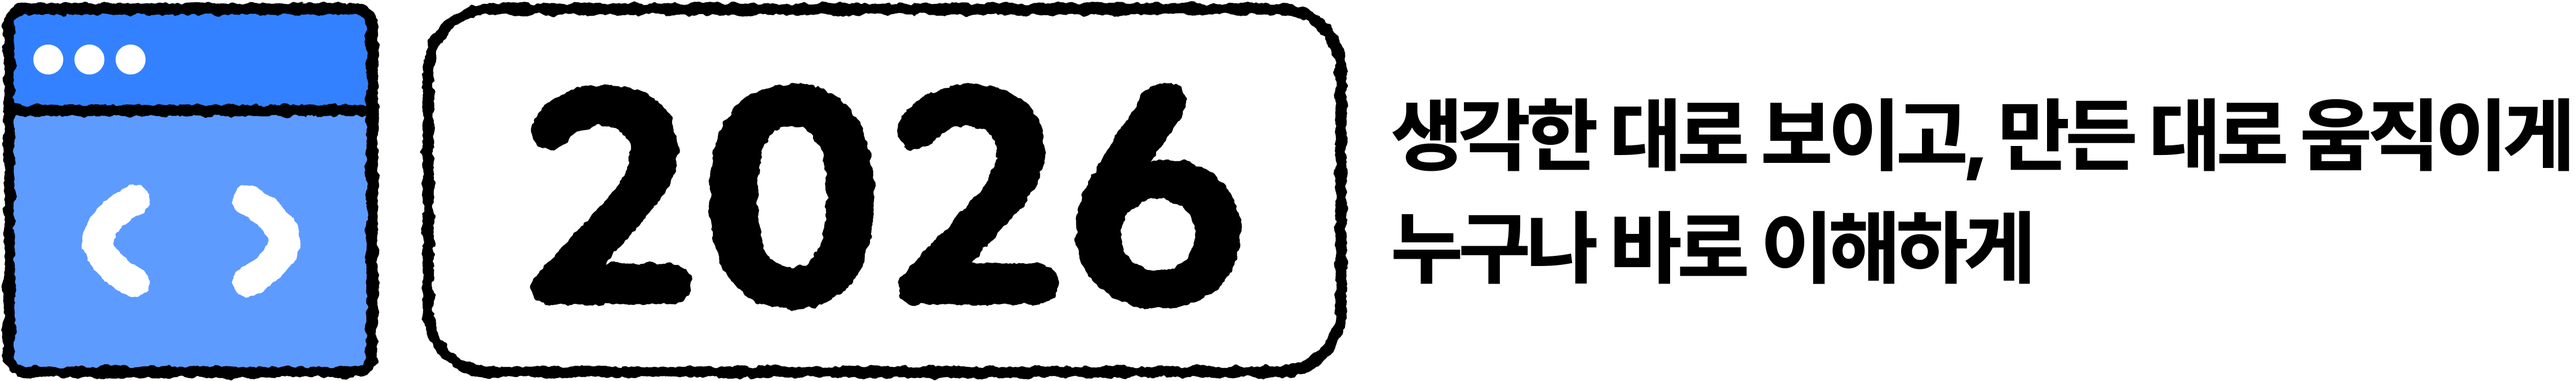
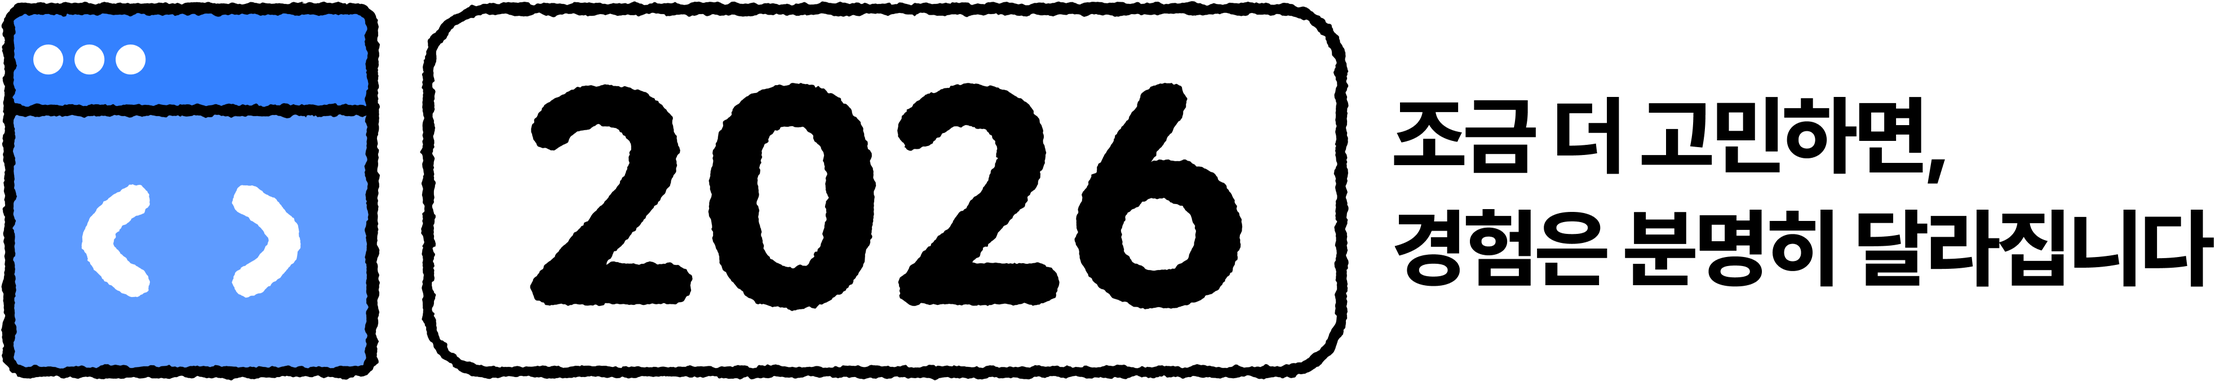
Hero 이미지 업데이트 및 About 섹션 내용 수정

Changed region(s): [[0.0, 0.0, 1.0, 1.0], [0.0, 0.0932, 0.0621, 0.2175]]

diff --git a/index.html b/index.html
@@ -357,26 +357,17 @@
             </h3>
             <div class="about__intro">
               <h4 class="about__intro-title">
-                '이해하기 쉬운가'를 기준으로 사용자 흐름을 설계하고,<br />디자인과
-                퍼블리싱을 함께 완성합니다.
+                기획 의도를 충분히 이해하고,<br />사용자 관점에서 의미 있는
+                포인트를 발견해 <br class="about__text-br" />디자인에
+                담아냅니다.
               </h4>
               <p class="about__text">
-                실무에서는 화면을 꾸미기보다, 사용자가 망설이지 않고<br
-                  class="about__text-br"
-                />
-                다음 행동으로 넘어갈 수 있도록 흐름을 먼저 설계하고,<br
-                  class="about__text-br"
-                />
-                <span class="about__text-line about__text-line--indent1"
-                  >그 의도가 실제 화면에서도 그대로 작동하도록
-                  <br class="about__text-br" />구현해왔습니다.</span
-                >
-                앞으로도 사용자의 이해를 기준으로, 복잡한 기능을<br
-                  class="about__text-br"
-                />
-                <span class="about__text-line about__text-line--indent1"
-                  >단순한 경험으로 바꾸는 디자인을 만들고자 합니다.</span
-                >
+                기획 의도를 이해한 뒤, 사용자 관점에서 다시 한 번 점검하며
+                작업해왔습니다.<br />
+                무엇이 먼저 보이고 어디에서 잠시 멈출지를 살피며, 구조 안에서
+                조금 더 편안해질 수 있는 요소를 더해왔습니다.<br />
+                앞으로도 구조와 표현의 균형 속에서, 편안하지만 분명하게 전달되는
+                디자인을 하고자 합니다.
               </p>
             </div>
             <a href="#" class="about__resume-btn">
